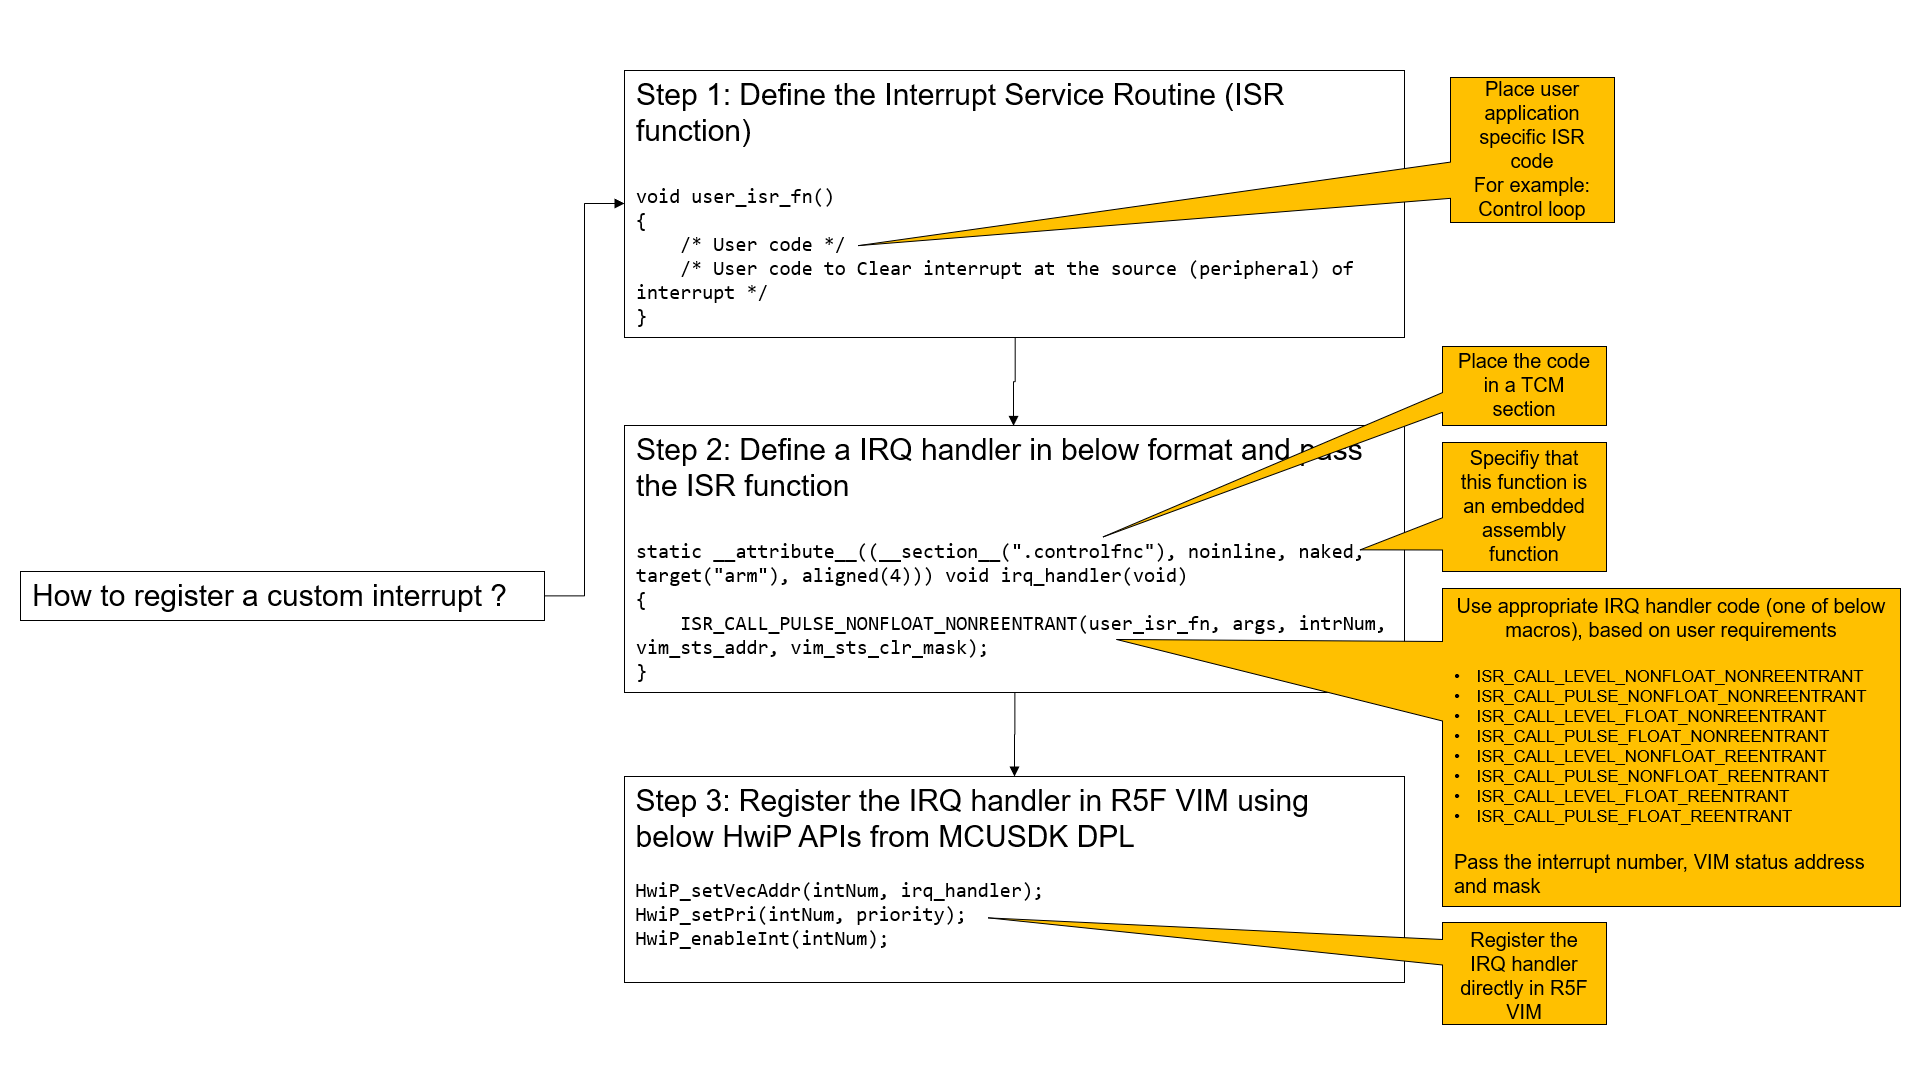
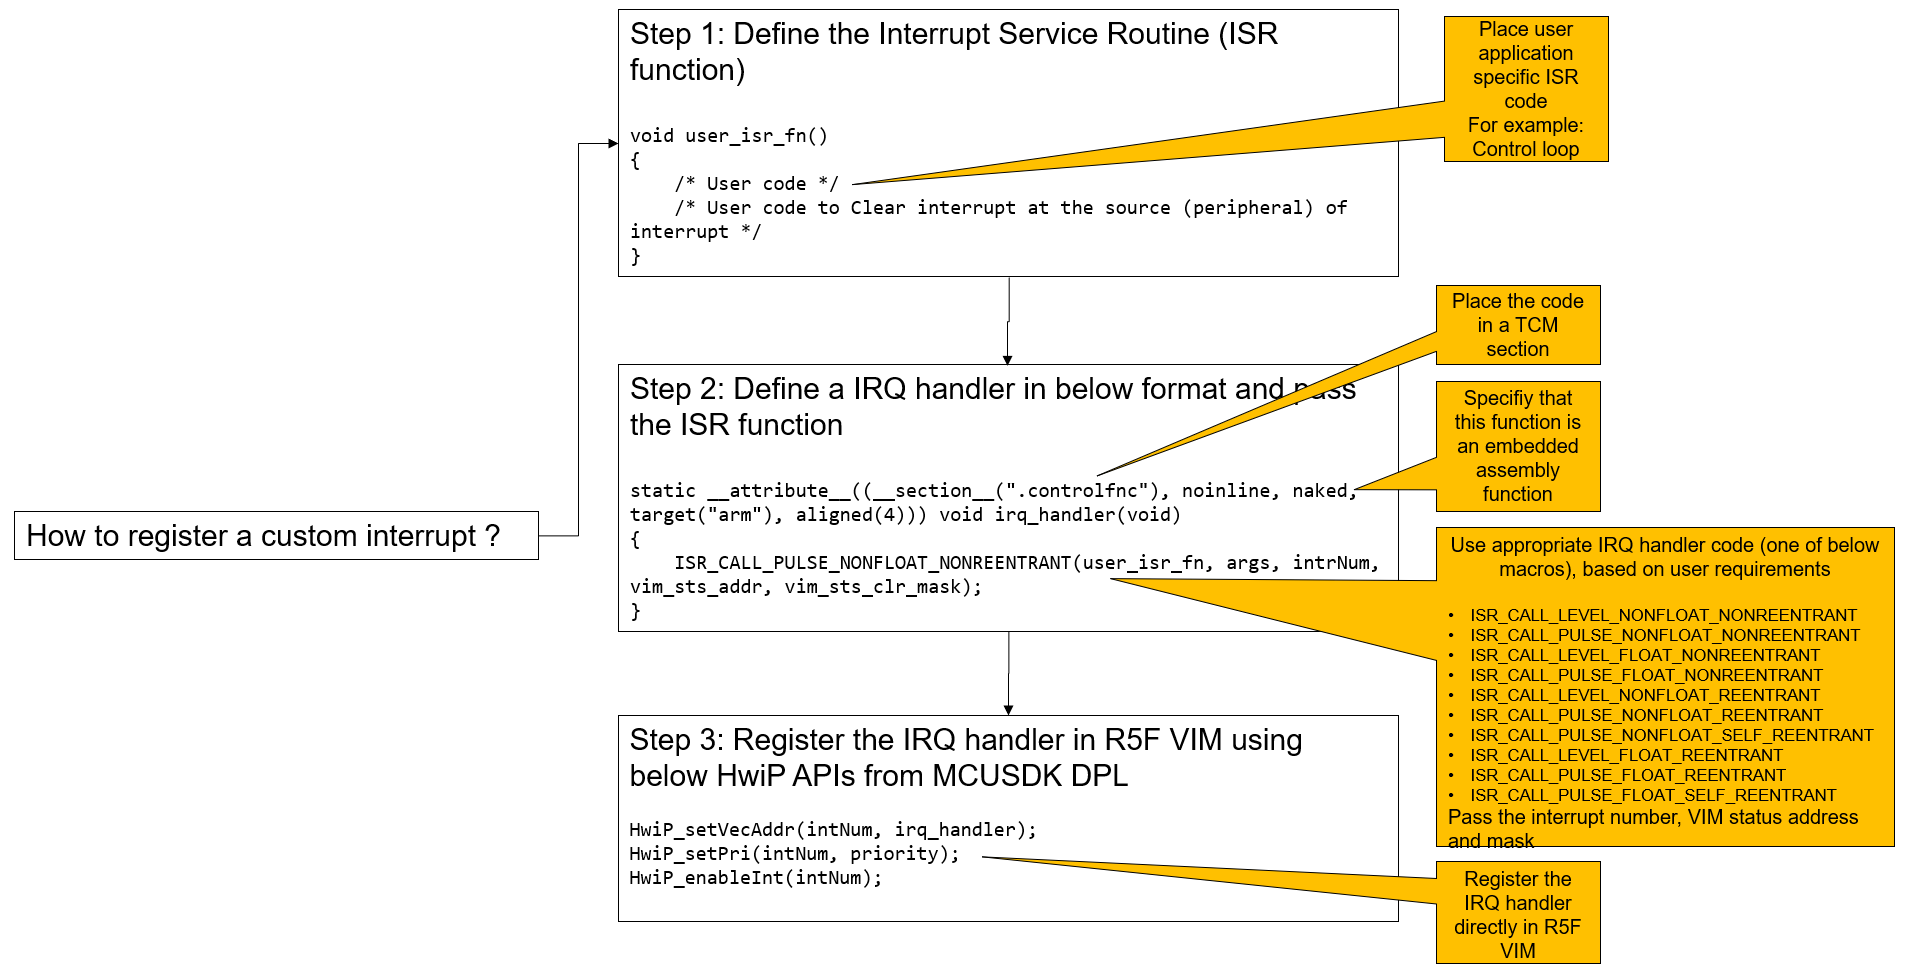
am263x/am263px/am261x: dpl: add self reentrant IRQ handler
- add macros for handling self re-entrant IRQ
- Update documentation

Fixes: MCUSDK-13153

Changed region(s): [[0.0, 0.2801, 1.0, 1.0], [0.3089, 0.0, 0.8649, 0.2801], [0.5251, 0.3112, 0.556, 0.3423]]

diff --git a/source/kernel/nortos/dpl/r5/HwiP_armv7r_vim.h b/source/kernel/nortos/dpl/r5/HwiP_armv7r_vim.h
@@ -593,6 +593,89 @@ static inline uint32_t HWI_SECTION HwiP_getActivePriority()
     "   MOVS    PC, LR                      \n"    \
     )
 
+#define ISR_CALL_PULSE_NONFLOAT_SELF_REENTRANT(fn, arg, intNum, vim_sts_addr, vim_sts_clr_mask, vim_addr)                  \
+    __asm__ volatile(                  \
+    "   SUB     lr, lr, #4                  \n"    \
+    "   PUSH    {lr}                        \n"    \
+    "   MRS     lr, SPSR                    \n"    \
+    "   PUSH    {lr}                        \n"    \
+    "   CPS     #0x13                       \n"    \
+    "   PUSH    {r0-r4, r12}                \n"    \
+    "   AND     r2, sp, #4                  \n"    \
+    "   SUB     sp, sp, r2                  \n"    \
+    "   PUSH    {r2, lr}                    \n"    \
+    "   LDR     r0, ="#vim_sts_addr"        \n"    \
+    "   LDR     r0, [r0]                    \n"    \
+    "   LDR     r1, ="#vim_sts_clr_mask"    \n"    \
+    "   LDR     r1, [r1]                    \n"    \
+    "   STR     r1, [r0]                    \n"    \
+    "   LDR     r0, ="#intNum"              \n"    \
+    "   LDR     r0, [r0]                    \n"    \
+    "   LDR     r1, ="#vim_addr"            \n"    \
+    "   LDR     r1, [r1]                    \n"    \
+    "   STR     r0, [r1, 0x18]              \n"    \
+    "   CPSIE   i                           \n"    \
+    "   LDR     r0, ="#arg"                 \n"    \
+    "   LDR     r0, [r0]                    \n"    \
+    "   LDR     r1, ="#fn"                  \n"    \
+    "   BLX     r1                          \n"    \
+    "   CPSID   i                           \n"    \
+    "   POP     {r2, lr}                    \n"    \
+    "   ADD     sp, sp, r2                  \n"    \
+    "   DSB                                 \n"    \
+    "   ISB                                 \n"    \
+    "   POP     {r0-r4, r12}                \n"    \
+    "   CPS     #0x12                       \n"    \
+    "   POP     {LR}                        \n"    \
+    "   MSR     SPSR_cxsf, LR               \n"    \
+    "   POP     {LR}                        \n"    \
+    "   MOVS    PC, LR                      \n"    \
+    )
+
+#define ISR_CALL_PULSE_FLOAT_SELF_REENTRANT(fn, arg, intNum, vim_sts_addr, vim_sts_clr_mask, vim_addr)                  \
+    __asm__ volatile(                  \
+    "   SUB     lr, lr, #4                  \n"    \
+    "   PUSH    {lr}                        \n"    \
+    "   MRS     lr, SPSR                    \n"    \
+    "   PUSH    {lr}                        \n"    \
+    "   CPS     #0x13                       \n"    \
+    "   PUSH    {r0-r4, r12}                \n"    \
+    "   FMRX    R0, FPSCR                   \n"    \
+    "   VPUSH   {D0-D15}                    \n"    \
+    "   PUSH    {R0}                        \n"    \
+    "   AND     r2, sp, #4                  \n"    \
+    "   SUB     sp, sp, r2                  \n"    \
+    "   PUSH    {r2, lr}                    \n"    \
+    "   LDR     r0, ="#vim_sts_addr"        \n"    \
+    "   LDR     r0, [r0]                    \n"    \
+    "   LDR     r1, ="#vim_sts_clr_mask"    \n"    \
+    "   LDR     r1, [r1]                    \n"    \
+    "   STR     r1, [r0]                    \n"    \
+    "   LDR     r0, ="#intNum"              \n"    \
+    "   LDR     r0, [r0]                    \n"    \
+    "   LDR     r1, ="#vim_addr"            \n"    \
+    "   LDR     r1, [r1]                    \n"    \
+    "   STR     r0, [r1, 0x18]              \n"    \
+    "   CPSIE   i                           \n"    \
+    "   LDR     r0, ="#arg"                 \n"    \
+    "   LDR     r0, [r0]                    \n"    \
+    "   LDR     r1, ="#fn"                  \n"    \
+    "   BLX     r1                          \n"    \
+    "   CPSID   i                           \n"    \
+    "   POP     {r2, lr}                    \n"    \
+    "   ADD     sp, sp, r2                  \n"    \
+    "   DSB                                 \n"    \
+    "   ISB                                 \n"    \
+    "   POP     {R0}                        \n"    \
+    "   VPOP    {D0-D15}                    \n"    \
+    "   VMSR    FPSCR, R0                   \n"    \
+    "   POP     {r0-r4, r12}                \n"    \
+    "   CPS     #0x12                       \n"    \
+    "   POP     {LR}                        \n"    \
+    "   MSR     SPSR_cxsf, LR               \n"    \
+    "   POP     {LR}                        \n"    \
+    "   MOVS    PC, LR                      \n"    \
+    )
 
 #ifdef __cplusplus
 }

diff --git a/docs_src/docs/api_guide/examples/kernel/low_latency_interrupt.md b/docs_src/docs/api_guide/examples/kernel/low_latency_interrupt.md
@@ -20,7 +20,7 @@ Also refer \ref PERFORMANCE_OPTIMIZATIONS_GUIDE
 \image html am263_dpl_low_latency_interrupt_b.png "Flow chart"
 
 
-This example uses following assembly macros for IRQ handling. These are defined in the dpl_low_latency_interrupt.c file
+This example uses following assembly macros for IRQ handling. These are defined in the mcu_plus_sdk\source\kernel\nortos\dpl\r5\HwiP_armv7r_vim.h file
 
 - ISR_CALL_LEVEL_NONFLOAT_NONREENTRANT and ISR_CALL_PULSE_NONFLOAT_NONREENTRANT
  - Use this if nesting of another interrupt inside this IRQ handler is not required and R5F Floating Point Unit is not used inside user ISR code
@@ -30,6 +30,12 @@ This example uses following assembly macros for IRQ handling. These are defined 
  - Use this if nesting of another interrupt inside this IRQ handler is required and R5F Floating Point Unit is not used inside user ISR code
 - ISR_CALL_LEVEL_FLOAT_REENTRANT and ISR_CALL_PULSE_FLOAT_REENTRANT
  - Use this if nesting of another interrupt inside this IRQ handler is required and R5F Floating Point Unit is used inside user ISR code
+- ISR_CALL_PULSE_FLOAT_SELF_REENTRANT
+ - Use this if nesting of same interrupt inside this IRQ handler is required and R5F Floating Point Unit is used inside user ISR code
+ - Supports self-nesting
+- ISR_CALL_PULSE_NONFLOAT_SELF_REENTRANT
+ - Use this if nesting of same interrupt inside this IRQ handler is required and R5F Floating Point Unit is not used inside user ISR code
+ - Supports self-nesting
 
 Refer the page \ref CHAPTER_OPTIMIZATION_SECTION_1 for steps to register custom interrupt using above macros and expected latency (cycles) improvements.
 
